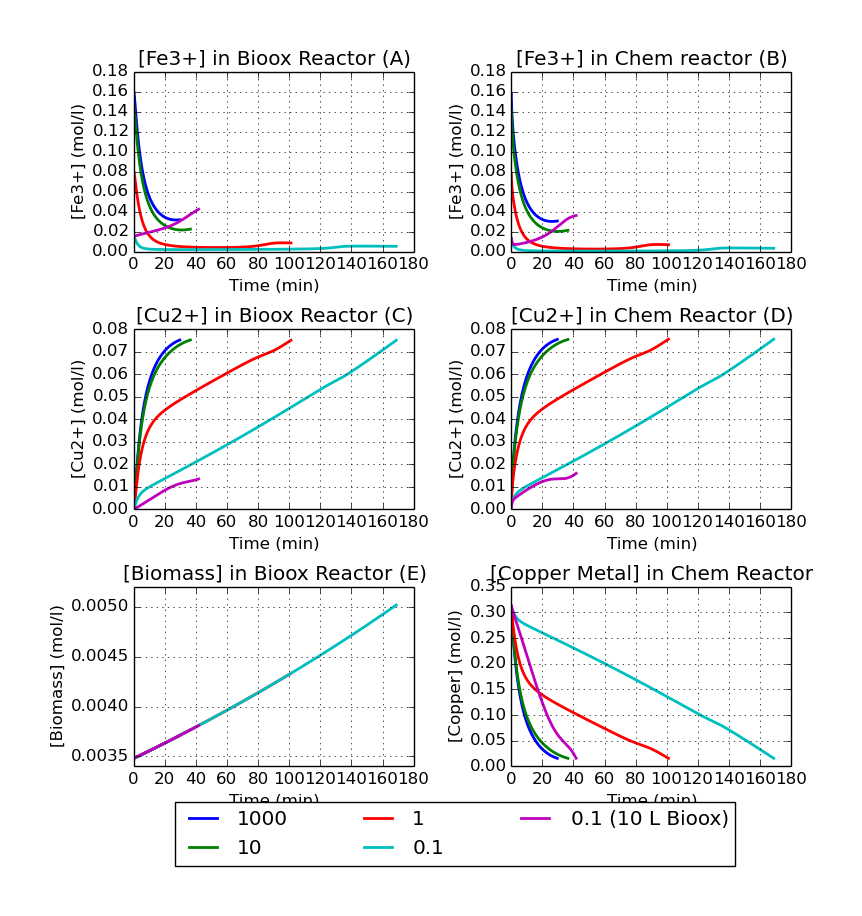
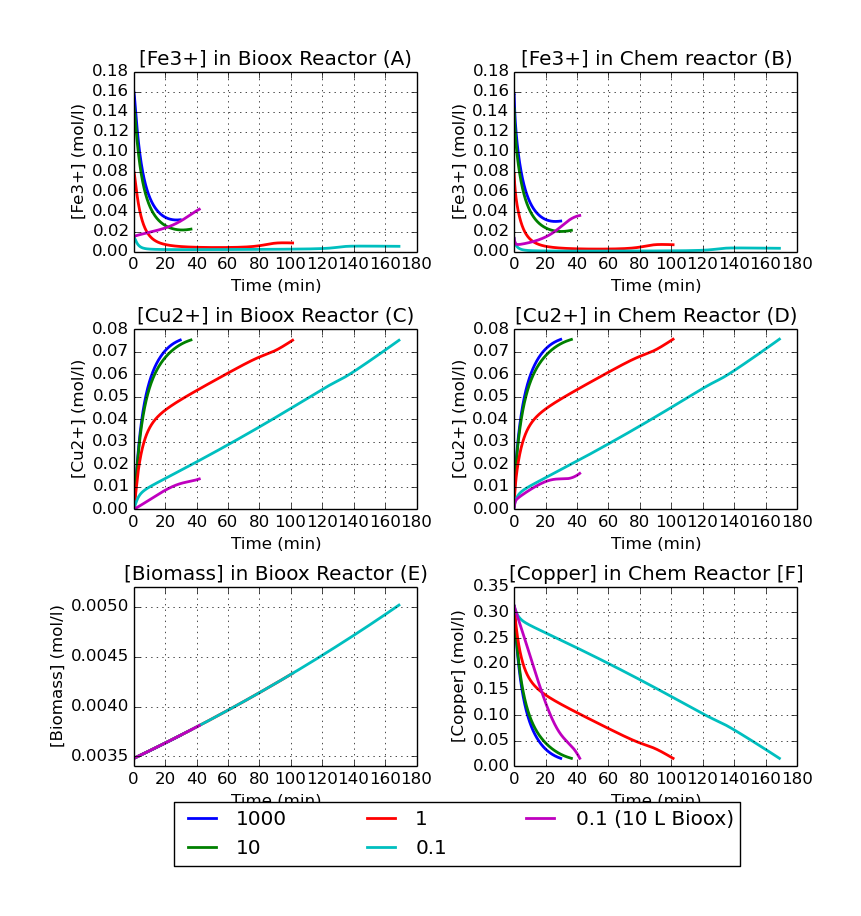
replotting

diff --git a/masters/calculations/management/commands/sensitivity_analysis.py b/masters/calculations/management/commands/sensitivity_analysis.py
@@ -305,7 +305,7 @@ class Command(BaseCommand):
         fig_subplot = fig.add_subplot(326)
         fig_subplot.set_xlabel("Time (min)")
         fig_subplot.set_ylabel("[Copper] (mol/l)")
-        fig_subplot.set_title("[Copper Metal] in Chem Reactor")
+        fig_subplot.set_title("[Copper] in Chem Reactor [F]")
         # fig_subplot.set_ylim(0, 0.18)
         fig_subplot.grid('on')
 
